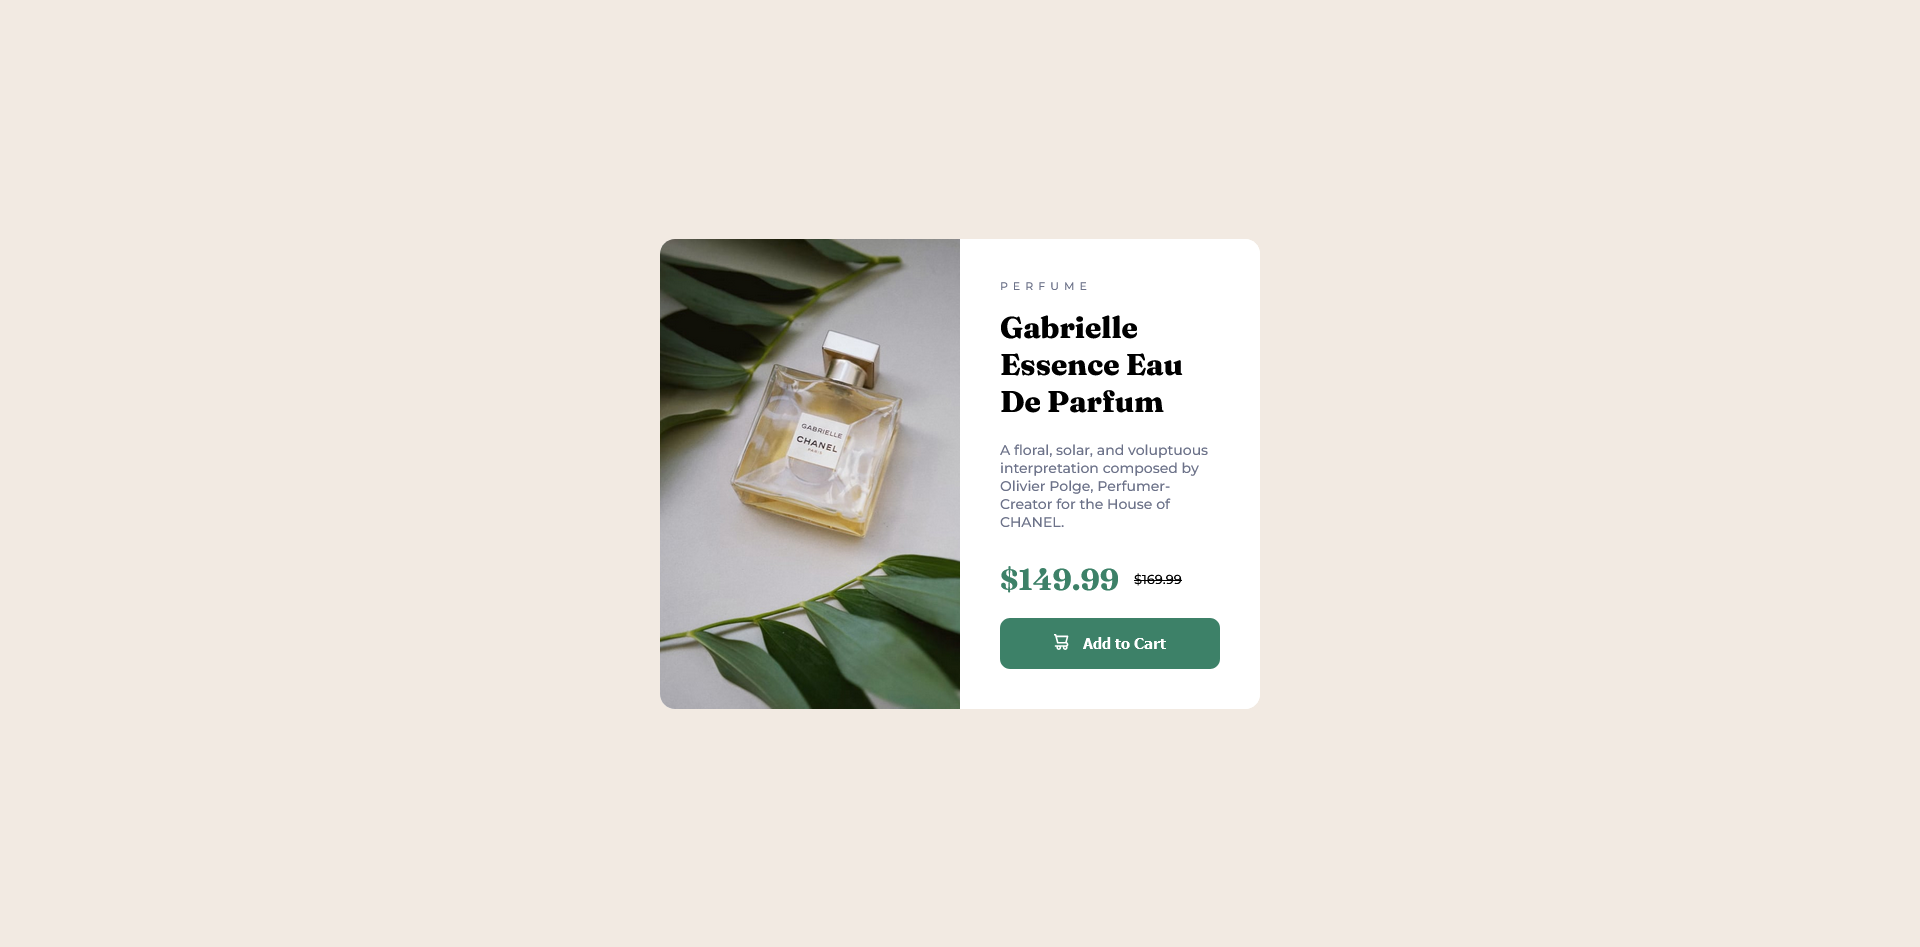
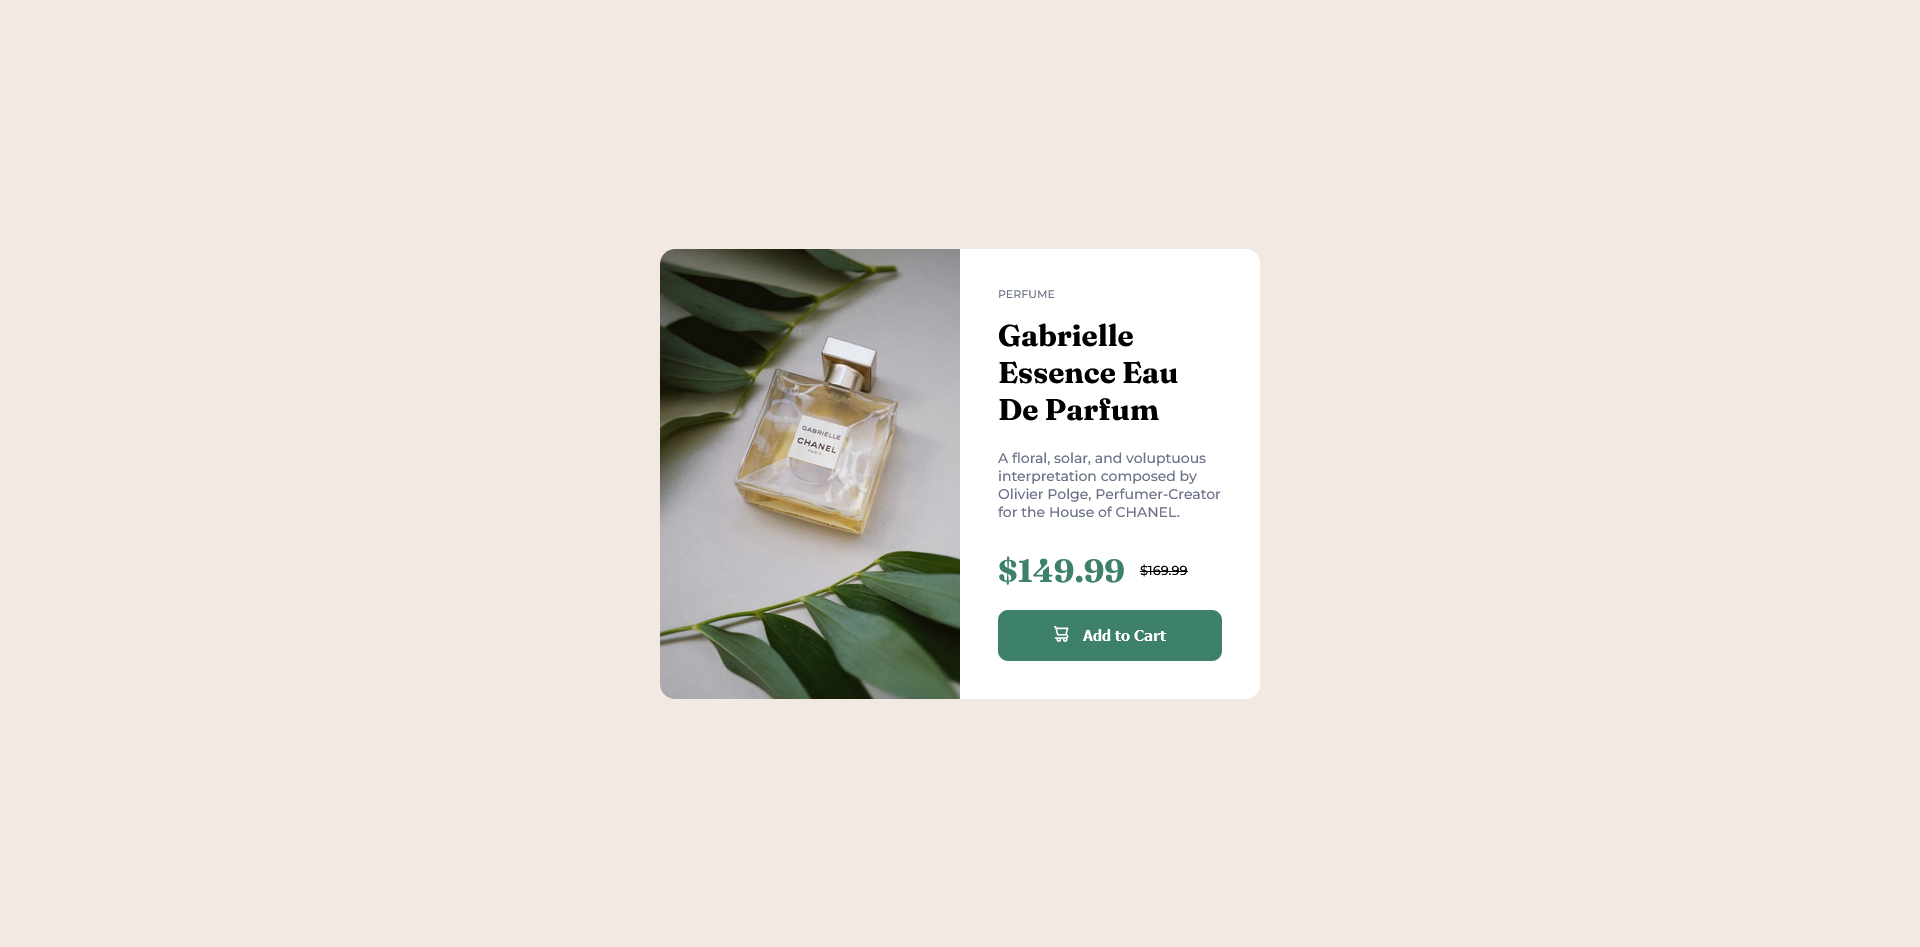
small improvements

Changed region(s): [[0.3438, 0.245, 0.6562, 0.7656], [0.5, 0.3062, 0.625, 0.5512]]

diff --git a/index.html b/index.html
@@ -25,16 +25,16 @@
 <body>
   <div class="wrapper">
     <div class="card">
-      <img src="./images/image-product-mobile.jpg" alt="Product image" class="card__image" />
+      <img src="./images/image-product-mobile.jpg" alt="Product image" class="card__image" role="image" />
       <div class="content">
-        <div class="content__subtitle">Perfume</div>
-        <h1 class="content__title">Gabrielle Essence Eau De Parfum</h1>
-        <p class="content__text">
+        <div class="content__subtitle" role="subtitle">Perfume</div>
+        <h1 class="content__title" role="title">Gabrielle Essence Eau De Parfum</h1>
+        <p class="content__text" role="text">
           A floral, solar, and voluptuous interpretation composed by Olivier Polge, Perfumer-Creator for the House of CHANEL.
         </p>
         <div class="content__prices">
-          <p class="content__prices--discounted">$149.99</p>
-          <p class="content__prices--high">$169.99</p>
+          <p class="content__prices--discounted" role="text">$149.99</p>
+          <p class="content__prices--high" role="text">$169.99</p>
         </div>
         <button type="submit" class="content__button" aria-label="Add to cart">Add to Cart</button>
       </div>

diff --git a/style.scss b/style.scss
@@ -77,7 +77,7 @@
   
       @media (min-width: 1440px) {
         width: 50%;
-        padding: 4rem;
+        padding: 3.8rem;
       }
     }
   }
@@ -85,7 +85,6 @@
   .content__subtitle {
     color: var(--color-metal);
     text-transform: uppercase;
-    letter-spacing: 0.5rem;
     font-size: 1.1rem;
     font-weight: var(--fw-500);
   }
@@ -93,7 +92,7 @@
   .content__title {
     font-family: var(--ff-fraunces);
     font-size: 3rem;
-    font-weight: 800;
+    font-weight: 700;
     margin: 1.6rem 0;
     color: var(--color-gray-950);
   }
@@ -118,7 +117,7 @@
       color: var(--color-aquamarine);
       font-family: var(--ff-fraunces);
       font-weight: var(--fw-700);
-      font-size: 3rem;
+      font-size: 3.2rem;
     }
   
     &--high {

diff --git a/style.css b/style.css
@@ -78,14 +78,13 @@ body {
 @media (min-width: 1440px) {
   .card .content {
     width: 50%;
-    padding: 4rem;
+    padding: 3.8rem;
   }
 }
 
 .content__subtitle {
   color: var(--color-metal);
   text-transform: uppercase;
-  letter-spacing: 0.5rem;
   font-size: 1.1rem;
   font-weight: var(--fw-500);
 }
@@ -93,7 +92,7 @@ body {
 .content__title {
   font-family: var(--ff-fraunces);
   font-size: 3rem;
-  font-weight: 800;
+  font-weight: 700;
   margin: 1.6rem 0;
   color: var(--color-gray-950);
 }
@@ -123,7 +122,7 @@ body {
   color: var(--color-aquamarine);
   font-family: var(--ff-fraunces);
   font-weight: var(--fw-700);
-  font-size: 3rem;
+  font-size: 3.2rem;
 }
 .content__prices--high {
   font-size: 1.3rem;
